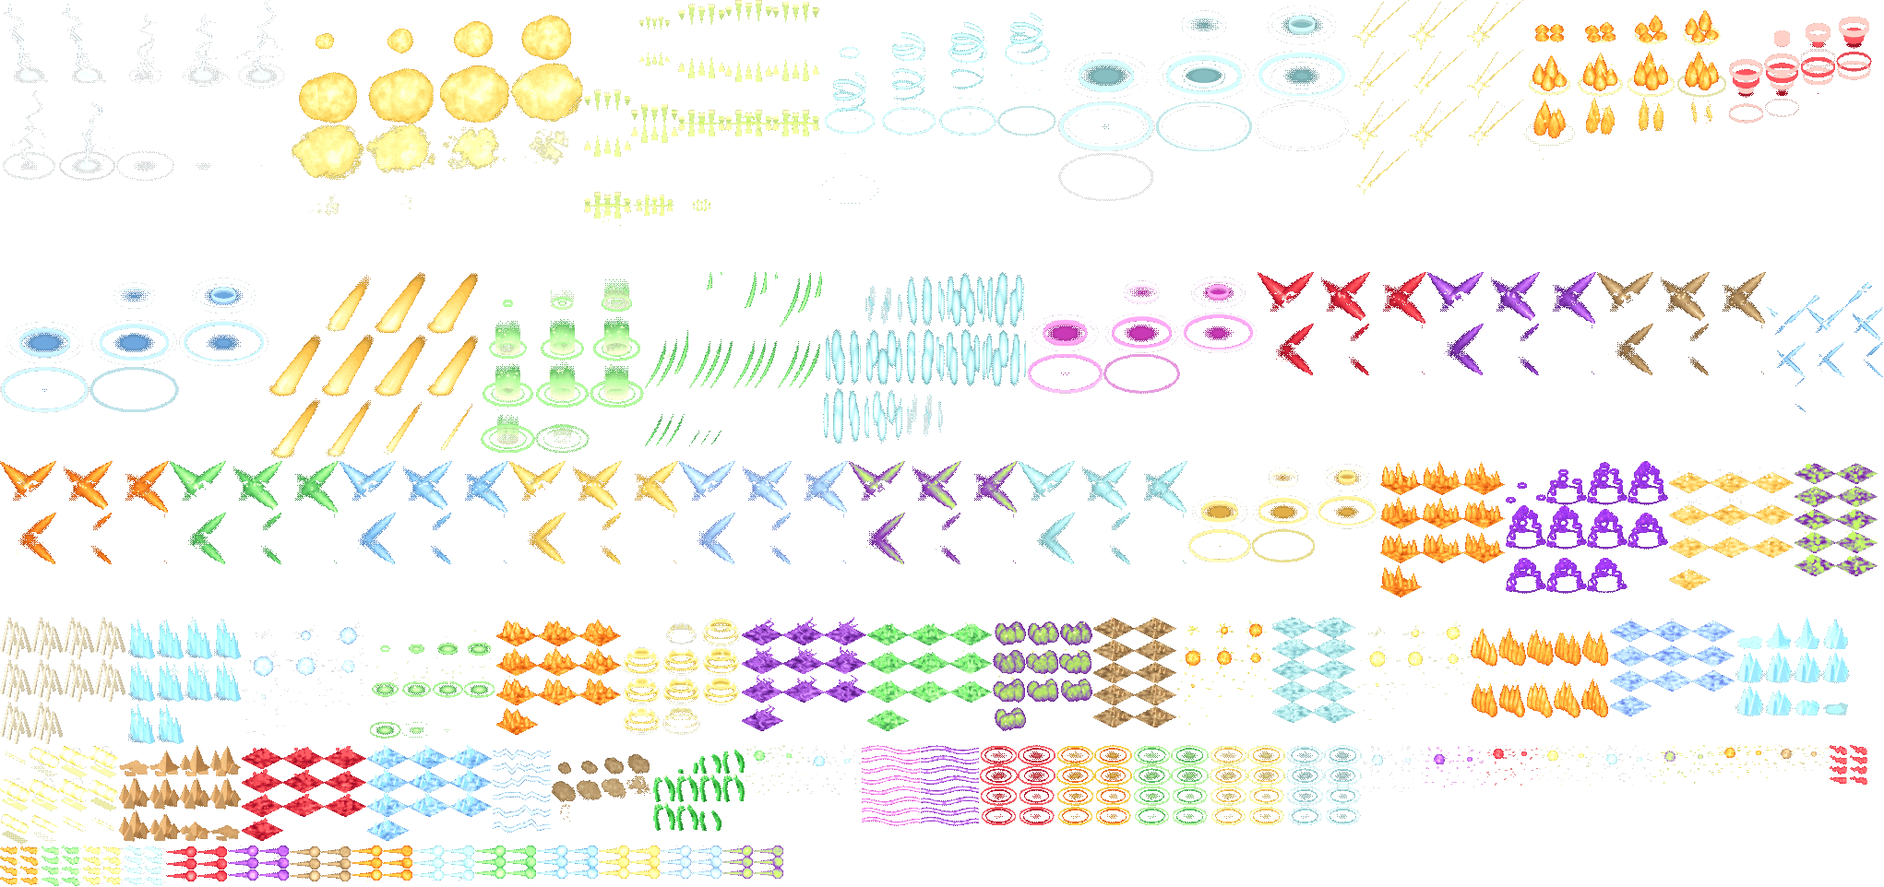
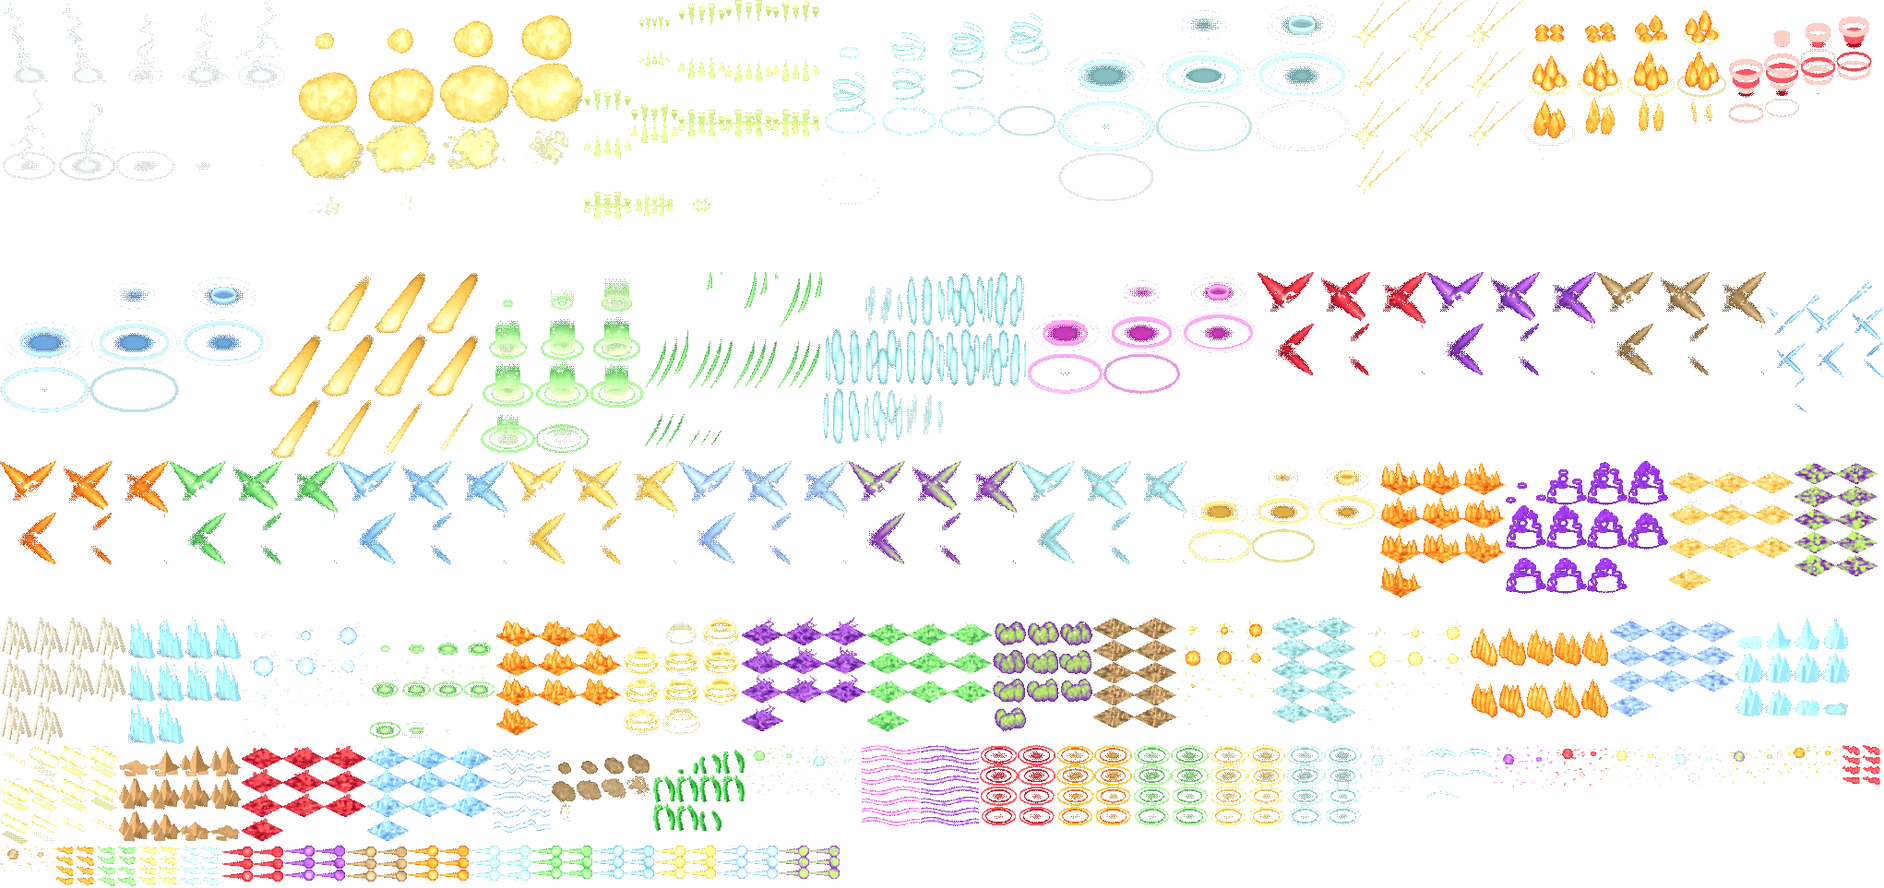
The block's own spark: a short bright arc in pale blue-steel
Claude-Session: https://claude.ai/code/session_01RRJtWnKv3aqtC5Z8HqXpVz

diff --git a/src/render/blenderFxData.ts b/src/render/blenderFxData.ts
@@ -7,7 +7,7 @@ import type { BfxClip } from './blenderFxRules';
 export const BFX_DENSITY = 45;
 export const BFX_GLOW_SHRINK = 4;
 /** The hard pixel atlases' sizes, then the soft glow atlases' (`px-<n>.webp`, `soft-<n>.webp`). */
-export const BFX_PX: readonly (readonly [number, number])[] = [[2041, 2045], [2042, 962], [1208, 1240], [1076, 1140], [938, 563], [990, 978], [364, 451], [935, 806], [1900, 1768], [1016, 691], [994, 778], [316, 280], [1016, 1019], [837, 717], [913, 1022], [923, 937], [1005, 700], [1176, 1280], [1164, 996], [873, 563], [1008, 1200], [1156, 1128], [979, 716], [1018, 822], [987, 641], [1023, 821], [919, 810], [874, 926], [277, 220], [754, 896], [991, 893], [983, 907], [919, 509], [817, 817], [918, 856], [980, 813], [802, 799], [842, 1009], [991, 950], [689, 569], [1065, 954], [881, 584], [976, 1003], [286, 217], [1023, 809], [605, 505], [987, 993], [286, 196], [977, 957], [781, 906], [451, 430], [781, 941], [802, 644], [1010, 846], [906, 993], [1076, 1048], [980, 738], [935, 994], [824, 496], [1328, 1540], [974, 954], [891, 782], [325, 274], [982, 895], [253, 220], [982, 936], [992, 776], [1280, 1100], [888, 926], [999, 809], [1020, 1011], [813, 223], [1018, 1022], [427, 136], [1024, 1018], [650, 226], [1016, 1015], [373, 145], [1019, 991], [443, 148], [1013, 1020], [358, 213], [1015, 1018], [357, 124], [1003, 1006], [960, 208], [1021, 1023], [424, 145], [1001, 1008], [650, 226], [136, 112]];
+export const BFX_PX: readonly (readonly [number, number])[] = [[2041, 2045], [2042, 963], [1208, 1240], [1076, 1140], [938, 563], [990, 978], [364, 451], [935, 806], [1900, 1768], [1016, 691], [994, 778], [316, 280], [1016, 1019], [837, 717], [913, 1022], [923, 937], [1005, 700], [1176, 1280], [1164, 996], [873, 563], [1008, 1200], [1156, 1128], [979, 716], [1018, 822], [987, 641], [1023, 821], [919, 810], [874, 926], [277, 220], [754, 896], [991, 893], [983, 907], [919, 509], [817, 817], [918, 856], [980, 813], [802, 799], [842, 1009], [991, 950], [689, 569], [1065, 954], [881, 584], [976, 1003], [286, 217], [1023, 809], [605, 505], [987, 993], [286, 196], [977, 957], [781, 906], [451, 430], [781, 941], [802, 644], [1010, 846], [906, 993], [1076, 1048], [980, 738], [935, 994], [824, 496], [1328, 1540], [974, 954], [891, 782], [325, 274], [982, 895], [253, 220], [982, 936], [992, 776], [1280, 1100], [888, 926], [999, 809], [1020, 1011], [813, 223], [1018, 1022], [427, 136], [1024, 1018], [650, 226], [1016, 1015], [373, 145], [1019, 991], [443, 148], [1013, 1020], [358, 213], [1015, 1018], [357, 124], [1003, 1006], [960, 208], [1021, 1023], [424, 145], [1001, 1008], [650, 226], [136, 112]];
 export const BFX_SOFT: readonly (readonly [number, number])[] = [[2045, 1439]];
 /** The pixel atlases every fight may need (the spells, the ground loops): loaded up front. The rest are loaded when a fight needs them. */
 export const BFX_CORE: readonly number[] = [0, 1];
@@ -23,11 +23,11 @@ export const BFX_CLIPS: Readonly<Record<string, BfxClip>> = {
   'aura-pool-light': {"a": 1, "x": 1311, "y": 808, "w": 41, "h": 22, "n": 8, "cols": 2, "ax": 20.5, "ay": 12.0, "ms": 1600, "loop": true, "hold": 0, "layer": "ground", "el": "holy"},
   'aura-pool-wind': {"a": 1, "x": 1394, "y": 808, "w": 41, "h": 22, "n": 8, "cols": 2, "ax": 20.5, "ay": 12.0, "ms": 1600, "loop": true, "hold": 0, "layer": "ground", "el": "wind"},
   'aura-spirits': {"a": 0, "x": 439, "y": 0, "w": 145, "h": 136, "n": 12, "cols": 3, "ax": 72.0, "ay": 116.4, "ms": 1300, "loop": true, "hold": 0, "layer": "over", "el": "wind"},
-  'aura-wisp-blood': {"a": 1, "x": 1983, "y": 808, "w": 22, "h": 11, "n": 8, "cols": 2, "ax": 10.5, "ay": 14.5, "ms": 640, "loop": true, "hold": 0, "layer": "over", "el": "blood"},
-  'aura-wisp-fire': {"a": 1, "x": 0, "y": 917, "w": 22, "h": 11, "n": 8, "cols": 2, "ax": 10.5, "ay": 14.5, "ms": 640, "loop": true, "hold": 0, "layer": "over", "el": "fire"},
-  'aura-wisp-forest': {"a": 1, "x": 45, "y": 917, "w": 22, "h": 11, "n": 8, "cols": 2, "ax": 10.5, "ay": 14.5, "ms": 640, "loop": true, "hold": 0, "layer": "over", "el": "forest"},
-  'aura-wisp-light': {"a": 1, "x": 90, "y": 917, "w": 22, "h": 11, "n": 8, "cols": 2, "ax": 10.5, "ay": 14.5, "ms": 640, "loop": true, "hold": 0, "layer": "over", "el": "holy"},
-  'aura-wisp-wind': {"a": 1, "x": 135, "y": 917, "w": 22, "h": 11, "n": 8, "cols": 2, "ax": 10.5, "ay": 14.5, "ms": 640, "loop": true, "hold": 0, "layer": "over", "el": "wind"},
+  'aura-wisp-blood': {"a": 1, "x": 1997, "y": 808, "w": 22, "h": 11, "n": 8, "cols": 2, "ax": 10.5, "ay": 14.5, "ms": 640, "loop": true, "hold": 0, "layer": "over", "el": "blood"},
+  'aura-wisp-fire': {"a": 1, "x": 61, "y": 917, "w": 22, "h": 11, "n": 8, "cols": 2, "ax": 10.5, "ay": 14.5, "ms": 640, "loop": true, "hold": 0, "layer": "over", "el": "fire"},
+  'aura-wisp-forest': {"a": 1, "x": 106, "y": 917, "w": 22, "h": 11, "n": 8, "cols": 2, "ax": 10.5, "ay": 14.5, "ms": 640, "loop": true, "hold": 0, "layer": "over", "el": "forest"},
+  'aura-wisp-light': {"a": 1, "x": 151, "y": 917, "w": 22, "h": 11, "n": 8, "cols": 2, "ax": 10.5, "ay": 14.5, "ms": 640, "loop": true, "hold": 0, "layer": "over", "el": "holy"},
+  'aura-wisp-wind': {"a": 1, "x": 196, "y": 917, "w": 22, "h": 11, "n": 8, "cols": 2, "ax": 10.5, "ay": 14.5, "ms": 640, "loop": true, "hold": 0, "layer": "over", "el": "wind"},
   'beat-appear-blood': {"a": 89, "x": 424, "y": 0, "w": 75, "h": 68, "n": 9, "cols": 3, "ax": 37.5, "ay": 48.3, "ms": 450, "loop": false, "hold": 4, "layer": "over", "el": "blood"},
   'beat-appear-dark': {"a": 78, "x": 386, "y": 774, "w": 75, "h": 65, "n": 9, "cols": 3, "ax": 37.5, "ay": 45.3, "ms": 450, "loop": false, "hold": 4, "layer": "over", "el": "shadow"},
   'beat-appear-earth': {"a": 85, "x": 0, "y": 0, "w": 75, "h": 69, "n": 9, "cols": 3, "ax": 37.5, "ay": 49.3, "ms": 450, "loop": false, "hold": 4, "layer": "over", "el": "earth"},
@@ -203,16 +203,17 @@ export const BFX_CLIPS: Readonly<Record<string, BfxClip>> = {
   'ground-lightning': {"a": 1, "x": 1745, "y": 669, "w": 45, "h": 27, "n": 10, "cols": 3, "ax": 22.0, "ay": 16.3, "ms": 950, "loop": true, "hold": 0, "layer": "over", "el": "lightning", "g": {"a": 0, "x": 1856, "y": 1303, "w": 15, "h": 17, "cols": 4, "ax": 7.25, "ay": 12.58}},
   'ground-poison': {"a": 1, "x": 1945, "y": 500, "w": 45, "h": 25, "n": 10, "cols": 2, "ax": 22.0, "ay": 14.3, "ms": 950, "loop": true, "hold": 0, "layer": "over", "el": "poison"},
   'ground-wind': {"a": 1, "x": 1379, "y": 669, "w": 45, "h": 23, "n": 10, "cols": 2, "ax": 22.0, "ay": 12.3, "ms": 950, "loop": true, "hold": 0, "layer": "over", "el": "wind"},
-  'hit-blow-blood': {"a": 1, "x": 1611, "y": 808, "w": 28, "h": 22, "n": 6, "cols": 2, "ax": 13.0, "ay": 23.3, "ms": 220, "loop": false, "hold": 1, "layer": "over", "el": "blood"},
-  'hit-blow-dark': {"a": 1, "x": 1544, "y": 808, "w": 33, "h": 23, "n": 6, "cols": 2, "ax": 16.0, "ay": 29.3, "ms": 220, "loop": false, "hold": 1, "layer": "over", "el": "shadow"},
-  'hit-blow-earth': {"a": 1, "x": 1922, "y": 808, "w": 30, "h": 15, "n": 6, "cols": 2, "ax": 14.0, "ay": 23.3, "ms": 220, "loop": false, "hold": 1, "layer": "over", "el": "earth"},
-  'hit-blow-fire': {"a": 1, "x": 1859, "y": 808, "w": 31, "h": 19, "n": 6, "cols": 2, "ax": 16.0, "ay": 22.3, "ms": 220, "loop": false, "hold": 1, "layer": "over", "el": "fire"},
+  'hit-block': {"a": 1, "x": 1544, "y": 808, "w": 37, "h": 23, "n": 6, "cols": 2, "ax": 18.0, "ay": 26.3, "ms": 220, "loop": false, "hold": 1, "layer": "over", "el": "ice"},
+  'hit-blow-blood': {"a": 1, "x": 1686, "y": 808, "w": 28, "h": 22, "n": 6, "cols": 2, "ax": 13.0, "ay": 23.3, "ms": 220, "loop": false, "hold": 1, "layer": "over", "el": "blood"},
+  'hit-blow-dark': {"a": 1, "x": 1619, "y": 808, "w": 33, "h": 23, "n": 6, "cols": 2, "ax": 16.0, "ay": 29.3, "ms": 220, "loop": false, "hold": 1, "layer": "over", "el": "shadow"},
+  'hit-blow-earth': {"a": 1, "x": 0, "y": 917, "w": 30, "h": 15, "n": 6, "cols": 2, "ax": 14.0, "ay": 23.3, "ms": 220, "loop": false, "hold": 1, "layer": "over", "el": "earth"},
+  'hit-blow-fire': {"a": 1, "x": 1934, "y": 808, "w": 31, "h": 19, "n": 6, "cols": 2, "ax": 16.0, "ay": 22.3, "ms": 220, "loop": false, "hold": 1, "layer": "over", "el": "fire"},
   'hit-blow-forest': {"a": 1, "x": 808, "y": 808, "w": 32, "h": 30, "n": 6, "cols": 2, "ax": 15.0, "ay": 25.3, "ms": 220, "loop": false, "hold": 1, "layer": "over", "el": "forest"},
   'hit-blow-ice': {"a": 1, "x": 873, "y": 808, "w": 30, "h": 30, "n": 6, "cols": 2, "ax": 15.0, "ay": 31.3, "ms": 220, "loop": false, "hold": 1, "layer": "over", "el": "ice"},
-  'hit-blow-light': {"a": 1, "x": 1668, "y": 808, "w": 31, "h": 22, "n": 6, "cols": 2, "ax": 15.0, "ay": 25.3, "ms": 220, "loop": false, "hold": 1, "layer": "over", "el": "holy"},
+  'hit-blow-light': {"a": 1, "x": 1743, "y": 808, "w": 31, "h": 22, "n": 6, "cols": 2, "ax": 15.0, "ay": 25.3, "ms": 220, "loop": false, "hold": 1, "layer": "over", "el": "holy"},
   'hit-blow-lightning': {"a": 1, "x": 1477, "y": 808, "w": 33, "h": 26, "n": 6, "cols": 2, "ax": 16.0, "ay": 30.3, "ms": 220, "loop": false, "hold": 1, "layer": "over", "el": "lightning"},
-  'hit-blow-poison': {"a": 1, "x": 1792, "y": 808, "w": 33, "h": 21, "n": 6, "cols": 2, "ax": 18.0, "ay": 26.3, "ms": 220, "loop": false, "hold": 1, "layer": "over", "el": "poison"},
-  'hit-blow-wind': {"a": 1, "x": 1731, "y": 808, "w": 30, "h": 22, "n": 6, "cols": 2, "ax": 16.0, "ay": 29.3, "ms": 220, "loop": false, "hold": 1, "layer": "over", "el": "wind"},
+  'hit-blow-poison': {"a": 1, "x": 1867, "y": 808, "w": 33, "h": 21, "n": 6, "cols": 2, "ax": 18.0, "ay": 26.3, "ms": 220, "loop": false, "hold": 1, "layer": "over", "el": "poison"},
+  'hit-blow-wind': {"a": 1, "x": 1806, "y": 808, "w": 30, "h": 22, "n": 6, "cols": 2, "ax": 16.0, "ay": 29.3, "ms": 220, "loop": false, "hold": 1, "layer": "over", "el": "wind"},
   'hit-cut-blood': {"a": 1, "x": 1363, "y": 295, "w": 61, "h": 56, "n": 7, "cols": 3, "ax": 30.0, "ay": 46.1, "ms": 280, "loop": false, "hold": 1, "layer": "over", "el": "blood"},
   'hit-cut-dark': {"a": 1, "x": 1547, "y": 295, "w": 61, "h": 56, "n": 7, "cols": 3, "ax": 30.0, "ay": 46.1, "ms": 280, "loop": false, "hold": 1, "layer": "over", "el": "shadow"},
   'hit-cut-earth': {"a": 1, "x": 1731, "y": 295, "w": 61, "h": 56, "n": 7, "cols": 3, "ax": 30.0, "ay": 46.1, "ms": 280, "loop": false, "hold": 1, "layer": "over", "el": "earth"},
@@ -223,16 +224,16 @@ export const BFX_CLIPS: Readonly<Record<string, BfxClip>> = {
   'hit-cut-lightning': {"a": 1, "x": 736, "y": 500, "w": 61, "h": 56, "n": 7, "cols": 3, "ax": 30.0, "ay": 46.1, "ms": 280, "loop": false, "hold": 1, "layer": "over", "el": "lightning"},
   'hit-cut-poison': {"a": 1, "x": 920, "y": 500, "w": 61, "h": 56, "n": 7, "cols": 3, "ax": 30.0, "ay": 46.1, "ms": 280, "loop": false, "hold": 1, "layer": "over", "el": "poison"},
   'hit-cut-wind': {"a": 1, "x": 1104, "y": 500, "w": 61, "h": 56, "n": 7, "cols": 3, "ax": 30.0, "ay": 46.1, "ms": 280, "loop": false, "hold": 1, "layer": "over", "el": "wind"},
-  'shot-orb-blood': {"a": 1, "x": 180, "y": 917, "w": 33, "h": 13, "n": 6, "cols": 2, "ax": 27.0, "ay": 7.0, "ms": 420, "loop": true, "hold": 0, "layer": "over", "el": "blood"},
-  'shot-orb-dark': {"a": 1, "x": 247, "y": 917, "w": 33, "h": 13, "n": 6, "cols": 2, "ax": 27.0, "ay": 6.0, "ms": 420, "loop": true, "hold": 0, "layer": "over", "el": "shadow"},
-  'shot-orb-earth': {"a": 1, "x": 314, "y": 917, "w": 33, "h": 13, "n": 6, "cols": 2, "ax": 27.0, "ay": 7.0, "ms": 420, "loop": true, "hold": 0, "layer": "over", "el": "earth"},
-  'shot-orb-fire': {"a": 1, "x": 381, "y": 917, "w": 33, "h": 13, "n": 6, "cols": 2, "ax": 27.0, "ay": 6.0, "ms": 420, "loop": true, "hold": 0, "layer": "over", "el": "fire"},
-  'shot-orb-forest': {"a": 1, "x": 515, "y": 917, "w": 33, "h": 12, "n": 6, "cols": 2, "ax": 27.0, "ay": 6.0, "ms": 420, "loop": true, "hold": 0, "layer": "over", "el": "forest"},
-  'shot-orb-ice': {"a": 1, "x": 582, "y": 917, "w": 33, "h": 12, "n": 6, "cols": 2, "ax": 27.0, "ay": 6.0, "ms": 420, "loop": true, "hold": 0, "layer": "over", "el": "ice"},
-  'shot-orb-light': {"a": 1, "x": 649, "y": 917, "w": 33, "h": 12, "n": 6, "cols": 2, "ax": 27.0, "ay": 6.0, "ms": 420, "loop": true, "hold": 0, "layer": "over", "el": "holy"},
-  'shot-orb-lightning': {"a": 1, "x": 716, "y": 917, "w": 33, "h": 12, "n": 6, "cols": 2, "ax": 27.0, "ay": 6.0, "ms": 420, "loop": true, "hold": 0, "layer": "over", "el": "lightning"},
-  'shot-orb-poison': {"a": 1, "x": 783, "y": 917, "w": 33, "h": 12, "n": 6, "cols": 2, "ax": 27.0, "ay": 6.0, "ms": 420, "loop": true, "hold": 0, "layer": "over", "el": "poison"},
-  'shot-orb-wind': {"a": 1, "x": 448, "y": 917, "w": 33, "h": 13, "n": 6, "cols": 2, "ax": 27.0, "ay": 6.0, "ms": 420, "loop": true, "hold": 0, "layer": "over", "el": "wind"},
+  'shot-orb-blood': {"a": 1, "x": 241, "y": 917, "w": 33, "h": 13, "n": 6, "cols": 2, "ax": 27.0, "ay": 7.0, "ms": 420, "loop": true, "hold": 0, "layer": "over", "el": "blood"},
+  'shot-orb-dark': {"a": 1, "x": 308, "y": 917, "w": 33, "h": 13, "n": 6, "cols": 2, "ax": 27.0, "ay": 6.0, "ms": 420, "loop": true, "hold": 0, "layer": "over", "el": "shadow"},
+  'shot-orb-earth': {"a": 1, "x": 375, "y": 917, "w": 33, "h": 13, "n": 6, "cols": 2, "ax": 27.0, "ay": 7.0, "ms": 420, "loop": true, "hold": 0, "layer": "over", "el": "earth"},
+  'shot-orb-fire': {"a": 1, "x": 442, "y": 917, "w": 33, "h": 13, "n": 6, "cols": 2, "ax": 27.0, "ay": 6.0, "ms": 420, "loop": true, "hold": 0, "layer": "over", "el": "fire"},
+  'shot-orb-forest': {"a": 1, "x": 576, "y": 917, "w": 33, "h": 12, "n": 6, "cols": 2, "ax": 27.0, "ay": 6.0, "ms": 420, "loop": true, "hold": 0, "layer": "over", "el": "forest"},
+  'shot-orb-ice': {"a": 1, "x": 643, "y": 917, "w": 33, "h": 12, "n": 6, "cols": 2, "ax": 27.0, "ay": 6.0, "ms": 420, "loop": true, "hold": 0, "layer": "over", "el": "ice"},
+  'shot-orb-light': {"a": 1, "x": 710, "y": 917, "w": 33, "h": 12, "n": 6, "cols": 2, "ax": 27.0, "ay": 6.0, "ms": 420, "loop": true, "hold": 0, "layer": "over", "el": "holy"},
+  'shot-orb-lightning': {"a": 1, "x": 777, "y": 917, "w": 33, "h": 12, "n": 6, "cols": 2, "ax": 27.0, "ay": 6.0, "ms": 420, "loop": true, "hold": 0, "layer": "over", "el": "lightning"},
+  'shot-orb-poison': {"a": 1, "x": 844, "y": 917, "w": 33, "h": 12, "n": 6, "cols": 2, "ax": 27.0, "ay": 6.0, "ms": 420, "loop": true, "hold": 0, "layer": "over", "el": "poison"},
+  'shot-orb-wind': {"a": 1, "x": 509, "y": 917, "w": 33, "h": 13, "n": 6, "cols": 2, "ax": 27.0, "ay": 6.0, "ms": 420, "loop": true, "hold": 0, "layer": "over", "el": "wind"},
   'spell-blink-cast': {"a": 0, "x": 1785, "y": 0, "w": 58, "h": 68, "n": 14, "cols": 4, "ax": 28.5, "ay": 61.3, "ms": 980, "loop": false, "hold": 3, "layer": "over", "el": "arcane"},
   'spell-bonewall-stand': {"a": 1, "x": 0, "y": 669, "w": 34, "h": 46, "n": 10, "cols": 4, "ax": 17.0, "ay": 36.8, "ms": 900, "loop": true, "hold": 0, "layer": "over", "el": "bone"},
   'spell-bulwark-hit': {"a": 0, "x": 1299, "y": 1784, "w": 71, "h": 48, "n": 14, "cols": 3, "ax": 35.5, "ay": 30.1, "ms": 980, "loop": false, "hold": 7, "layer": "over", "el": "earth"},

diff --git a/src/render/blenderFxRules.ts b/src/render/blenderFxRules.ts
@@ -283,10 +283,10 @@ export function bfxDrop(held: readonly number[], now: ReadonlySet<number>, befor
  *  - `crit`: a heavy blow: crossed strokes in gold, plainly the largest.
  *  Each is small and quick (`ms` under 300); `size` is a multiple of the clip's own. */
 export type HitKind = 'blow' | 'burst' | 'block' | 'backstab' | 'crit';
-export const HIT_SPARK: Readonly<Record<HitKind, { clip: 'blow' | 'cut'; el?: string; size: number; grow: number; ms: number }>> = {
+export const HIT_SPARK: Readonly<Record<HitKind, { clip: 'blow' | 'cut' | 'block'; el?: string; size: number; grow: number; ms: number }>> = {
   blow: { clip: 'blow', el: 'light', size: 1.0, grow: 0.5, ms: 200 },
   burst: { clip: 'blow', size: 1.0, grow: 0.5, ms: 220 },
-  block: { clip: 'blow', el: 'ice', size: 1.1, grow: 0, ms: 220 },
+  block: { clip: 'block', size: 1.1, grow: 0, ms: 220 },
   backstab: { clip: 'cut', el: 'dark', size: 0.7, grow: 0, ms: 260 },
   crit: { clip: 'cut', el: 'light', size: 0.8, grow: 0.2, ms: 280 },
 };
@@ -294,7 +294,8 @@ export const HIT_SPARK: Readonly<Record<HitKind, { clip: 'blow' | 'cut'; el?: st
  *  that took `share` of the target's health (0 to 1), and how long it plays. Undefined where the pipeline has not made the clip. */
 export function hitSpark(kind: HitKind, el: string, share: number): { key: string; size: number; ms: number } | undefined {
   const h = HIT_SPARK[kind];
-  const key = `hit-${h.clip}-${h.el ?? el}`;
+  // (a block's arc is one clip, in its own pale steel whatever struck it)
+  const key = h.clip === 'block' ? 'hit-block' : `hit-${h.clip}-${h.el ?? el}`;
   if (!BFX_CLIPS[key]) return undefined;
   return { key, size: h.size + h.grow * Math.max(0, Math.min(1, share * 3)), ms: h.ms };
 }

diff --git a/test/hit-sparks.test.ts b/test/hit-sparks.test.ts
@@ -26,7 +26,9 @@ test('every kind of landing has its spark in every element, in the atlases every
   assert.equal(hitSpark('burst', 'fire', 0)!.key, 'hit-blow-fire');
   assert.equal(hitSpark('burst', 'poison', 0)!.key, 'hit-blow-poison');
   assert.equal(hitSpark('blow', 'fire', 0)!.key, 'hit-blow-light');
-  assert.equal(hitSpark('block', 'fire', 0)!.key, 'hit-blow-ice');
+  // (a block has its own shape, the director's order: an arc in pale steel, whatever struck it)
+  assert.equal(hitSpark('block', 'fire', 0)!.key, 'hit-block');
+  assert.ok(BFX_CORE.includes(BFX_CLIPS['hit-block'].a) && !BFX_CLIPS['hit-block'].loop);
   assert.equal(hitSpark('backstab', 'fire', 0)!.key, 'hit-cut-dark');
   assert.equal(hitSpark('crit', 'fire', 0)!.key, 'hit-cut-light');
 });
@@ -34,7 +36,7 @@ test('every kind of landing has its spark in every element, in the atlases every
 test('a spark is quick, grows with the blow, and a crit is plainly the largest', () => {
   for (const kind of KINDS) {
     assert.ok(HIT_SPARK[kind].ms < 300, `${kind}: ${HIT_SPARK[kind].ms} ms`);
-    assert.ok(BFX_CLIPS[`hit-${HIT_SPARK[kind].clip}-light`].ms < 300);
+    assert.ok(BFX_CLIPS[hitSpark(kind, 'light', 0)!.key].ms < 300);
   }
   // (a scratch is small, a third of the target's health is the spark at its largest)
   assert.ok(hitSpark('blow', 'light', 0)!.size < hitSpark('blow', 'light', 0.2)!.size);

diff --git a/tools/blender-fx/scenes.py b/tools/blender-fx/scenes.py
@@ -2280,8 +2280,41 @@ def strand(c, length=2.0, kind='bolt', w=0.034, amp=0.14):
     return step
 
 
+# 71. Guard: a blow turned aside. A short, bright, shallow arc (the edge a guard is held along, not a shield), flaring where the
+# blow met it and widening as it thins, a few sparks thrown off it.
+def guard(c, r=0.6, z=0.5, wide=0.17, span=1.05):
+    m, a, _ = c.streak('mid', 'hot', 0.9, 1.5)
+    n = 14
+    angs = [math.pi / 2 - span + 2 * span * i / n for i in range(n + 1)]
+
+    def lay(k):
+        return [scr(math.cos(g) * r * k, math.sin(g) * r * k * 0.6 - r * 0.3, z) for g in angs]
+    sides = [scr(math.cos(g), math.sin(g) * 0.6) for g in angs]
+    arc = c.ribbon(list(zip(lay(0.8), sides)), wide, m)
+    fm, cut = c.flame(3.0, 0.5, 1.6)
+    core = c.sphere(1, fm, 3)
+    fly = _fly(c, 7, r * 0.7, r * 1.5, 2.5, 'hot', 0.03)
+
+    def step(t):
+        c.tick(t, 2.0)
+        g = ease(t)
+        thick = max(0.0, 1 - t) ** 0.4
+        # (each point of the arc is widened along its own spoke, so the ribbon is re-laid here point by point)
+        for i, (p, sd) in enumerate(zip(lay(0.8 + 0.3 * g), sides)):
+            w = wide * thick * (0.35 + 0.65 * math.sin(i / n * math.pi)) + 0.003
+            arc.data.vertices[i * 2].co = (p[0] - sd[0] * w, p[1] - sd[1] * w, p[2] - sd[2] * w)
+            arc.data.vertices[i * 2 + 1].co = (p[0] + sd[0] * w, p[1] + sd[1] * w, p[2] + sd[2] * w)
+        arc.data.update()
+        a.inputs[1].default_value = 2.6 * (1 - 0.5 * t)
+        hide(arc, t > 0.92)
+        put(core, (0, 0, z + r * 0.2), max(0.001, r * 0.22 * bell(win(t, 0, 0.5))))
+        cut.inputs[1].default_value = 0.05 + 0.4 * t
+        fly(t, z + r * 0.2)
+    return step
+
+
 SCENES = {f.__name__: f for f in (
     burst, pillar, spikes, arc, bolt, vortex, beam, nova, rain, crack, dome, projectile, trail, ring, swarm, chains, meteor, cloud, geyser, sigil,
     wall, crystal, shatter, gust, vines, motes, shout, spiral, implode, bite, eye, ribs, flames, ground, sparks, cross, smoke, portal, claws, veil,
-    halo, shockwave, souls, hearts, shaft, slab, flare, strike, comet, palisade, siphon, tile, impact, spirits, beast, eyes, whirlpool, sandstorm, wings, banner, flock, notes, eclipse, broadside, toll, meteors, wisp, pool, strand,
+    halo, shockwave, souls, hearts, shaft, slab, flare, strike, comet, palisade, siphon, tile, impact, spirits, beast, eyes, whirlpool, sandstorm, wings, banner, flock, notes, eclipse, broadside, toll, meteors, wisp, pool, strand, guard,
 )}

diff --git a/tools/blender-fx/effects.py b/tools/blender-fx/effects.py
@@ -560,6 +560,8 @@ HIT_SKIP = 3
 for j, (clip, (scene, opt, canvas, n, ms)) in enumerate(HITS.items()):
     for i, (el, (pal, _)) in enumerate(GROUND.items()):
         fx(f'hit-{clip}-{el}', scene, pal, **canvas, frames=n + HIT_SKIP, skip=HIT_SKIP, ms=ms, seed=700 + 11 * j + i, glow=False, **opt)
+# (a block has a shape of its own, so it reads without its word: a short bright arc in pale blue-steel, the edge a guard is held along)
+fx('hit-block', 'guard', 'ice', **box(1.05, 1.25), frames=6 + HIT_SKIP - 1, skip=HIT_SKIP - 1, ms=220, seed=740, glow=False)
 
 # ---- ULT-AUDIT: what an ability IS, as a loop that stays for as long as the ability lasts (docs/notes/ult-audit.md). Spirit Guardians:
 # four ghostly figures a fighter tall circling the Cleric, round and round (`paintAura` draws it on her while the aura lives). ----

diff --git a/docs/notes/shots.md b/docs/notes/shots.md
@@ -21,6 +21,12 @@ its puffs and the lines drawn by hand.
   drawn by hand, as before.
 - Reduced motion: an orb and a strand hold their one still frame.
 
+## The block's own spark
+
+With the same push (the director's order): a block no longer borrows the blow's star in ice. `hit-block` is a scene of its own,
+`guard`: a short, bright, shallow arc in pale blue-steel (the edge a guard is held along; no shield is modelled), flaring where
+the blow met it and widening as it thins. `docs/samples/blender-fx/block-before-after-393.png`.
+
 ## Memory
 
 The new clips lie in the two atlases every fight already holds; nothing more is asked for at a fight's start.
@@ -28,10 +34,10 @@ The new clips lie in the two atlases every fight already holds; nothing more is 
 | | before | after |
 | --- | --- | --- |
 | core atlas 0 | 2041 x 2045, 16,695,380 bytes decoded | the same |
-| core atlas 1 | 2042 x 917, 7,490,056 bytes decoded | 2042 x 962, 7,857,616 bytes decoded |
+| core atlas 1 | 2042 x 917, 7,490,056 bytes decoded | 2042 x 963, 7,865,784 bytes decoded |
 
-That is 367,560 bytes more decoded (about 0.35 MB), and 15,488 bytes more on disc (`src/art/fx/blender`: 4,879,448 to
-4,894,936).
+That is 375,728 bytes more decoded (about 0.36 MB, the block's arc below included), and 15,320 bytes more on disc
+(`src/art/fx/blender`: 4,879,448 to 4,894,768).
 
 ## Verdict
 

diff --git a/docs/notes/hit-sparks.md b/docs/notes/hit-sparks.md
@@ -99,3 +99,8 @@ Tests, said plainly:
 Two tools read the table: `tools/fx-animate/lists.ts` (it only added the table's names to a list that has them from the
 signatures) and `tools/fxlab/audit.ts` (the "before" column of an old audit, now empty; the table it wrote is kept in
 `docs/notes/unique-spells-table.md`).
+
+
+## Since: the block's own shape
+
+A block has a clip of its own, `hit-block` (a pale steel arc; `docs/notes/shots.md`), so it reads without its word.
